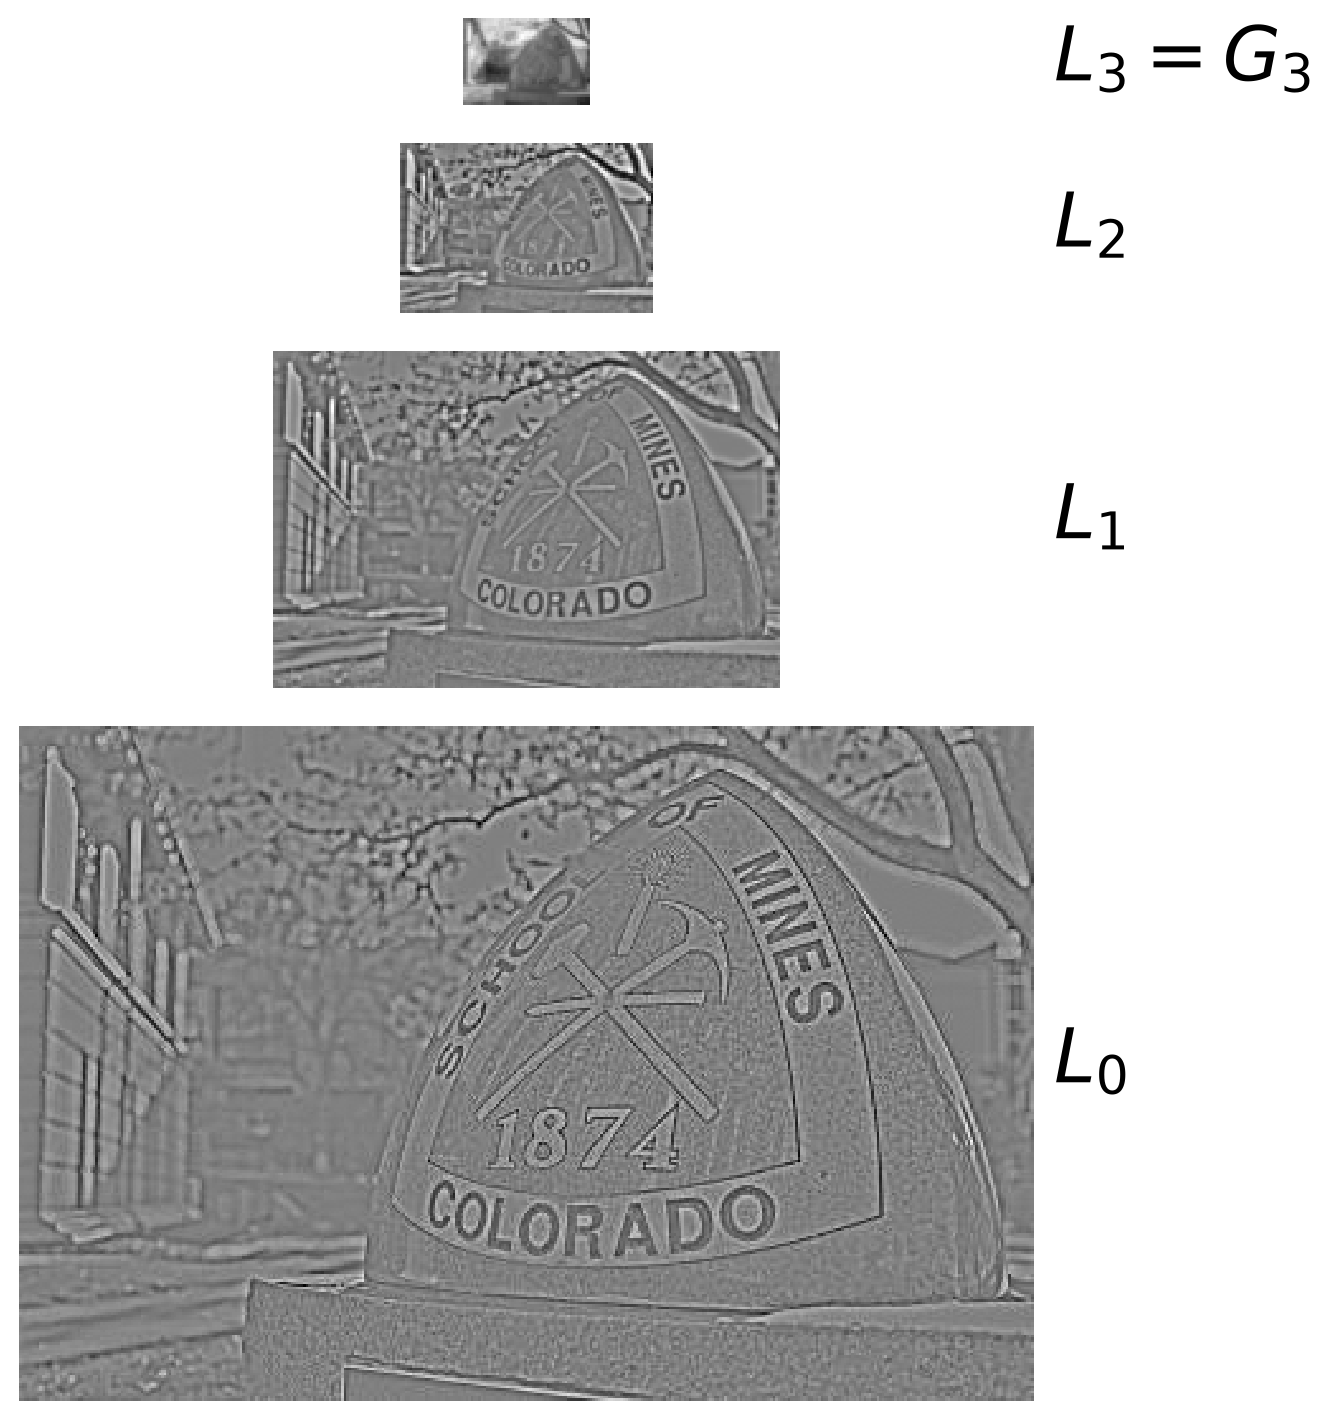
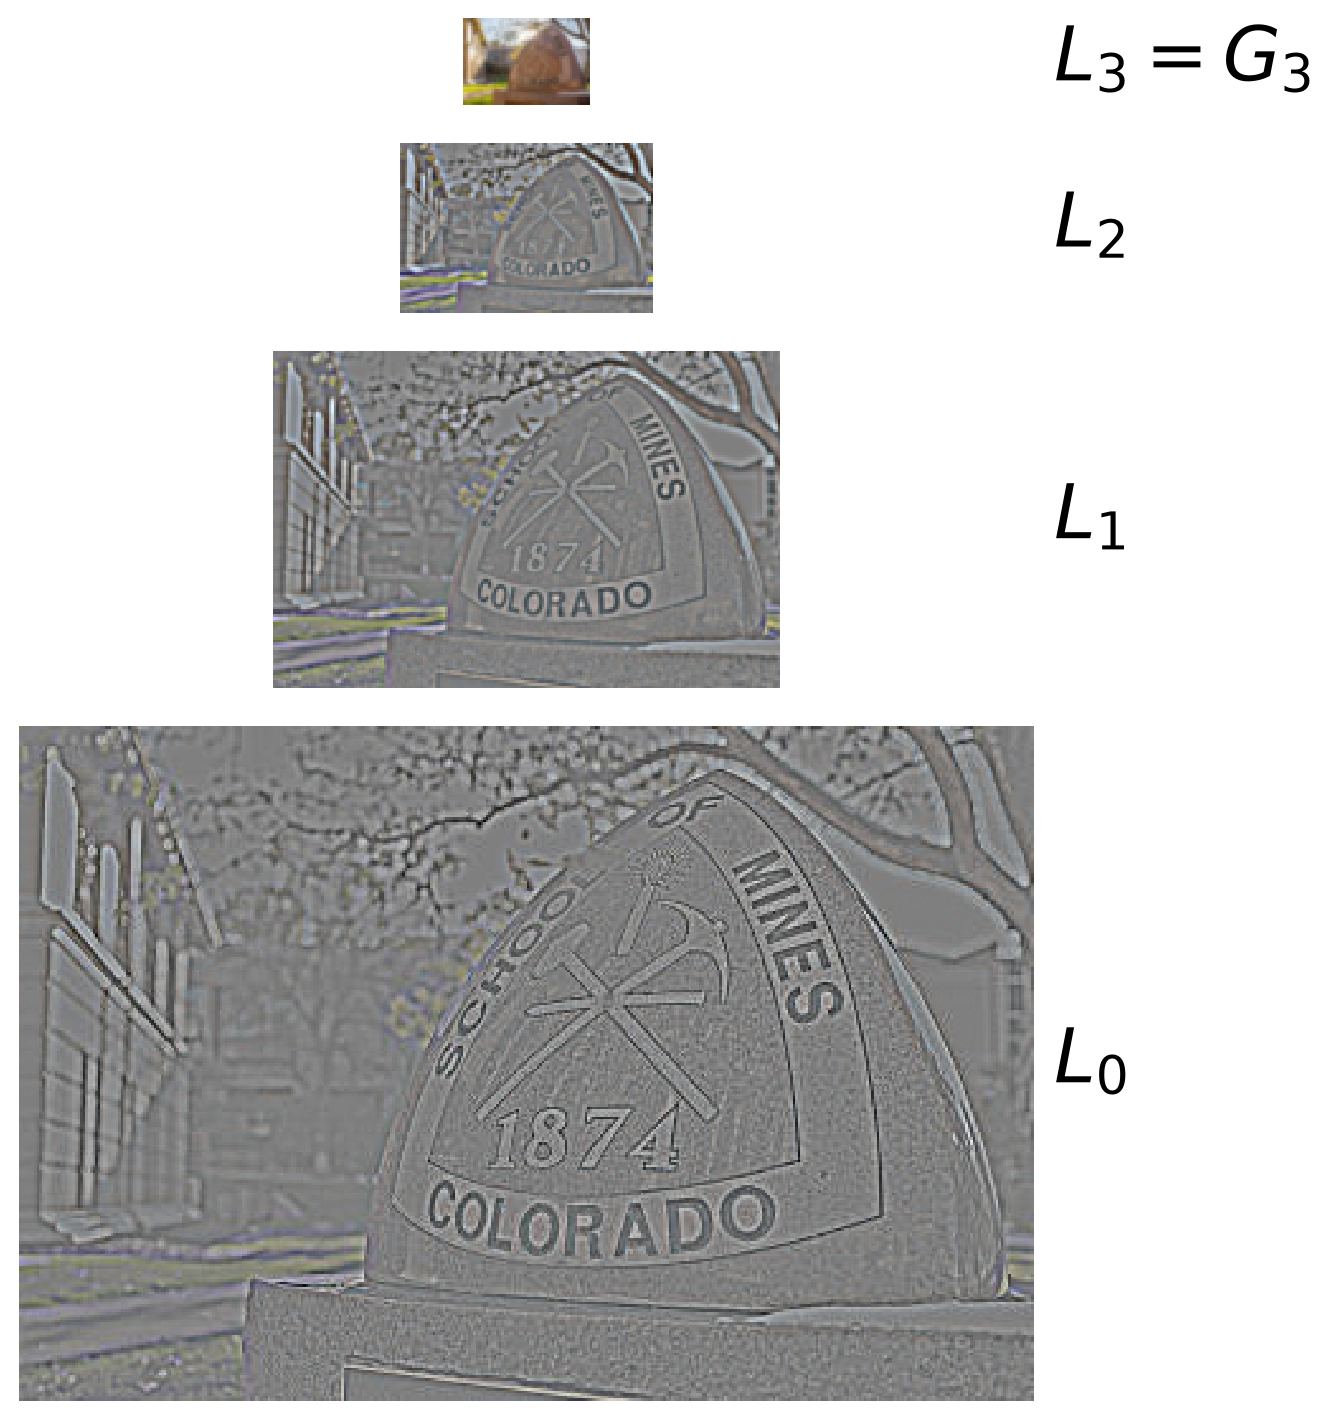
lec 4 color update, lec 2 geom vs spatial res

diff --git a/docs/lectures/04_image_pyramids.html b/docs/lectures/04_image_pyramids.html
@@ -247,7 +247,7 @@ Kaveh Fathian
   overflow-y: auto;
 }
 </style>
-<div id="1fa98fcf" class="cell code-block columns column-output-location" data-execution_count="3">
+<div id="865b434d" class="cell code-block columns column-output-location" data-execution_count="2">
 <div class="column">
 <div class="code-copy-outer-scaffold"><div class="sourceCode cell-code" id="cb1"><pre class="sourceCode numberSource python number-lines code-with-copy"><code class="sourceCode python"><span id="cb1-1"><a aria-label="1"></a><span class="im">import</span> matplotlib.pyplot <span class="im">as</span> plt</span>
 <span id="cb1-2"><a aria-label="2"></a></span>
@@ -259,7 +259,7 @@ Kaveh Fathian
 <span id="cb1-8"><a aria-label="8"></a>    gridspec_kw<span class="op">=</span>{<span class="st">"width_ratios"</span>: [<span class="dv">4</span>, <span class="dv">2</span>, <span class="dv">1</span>]})</span>
 <span id="cb1-9"><a aria-label="9"></a></span>
 <span id="cb1-10"><a aria-label="10"></a><span class="cf">for</span> a, y, s <span class="kw">in</span> <span class="bu">zip</span>(ax, [y2, y4, y8], [<span class="dv">2</span>, <span class="dv">4</span>, <span class="dv">8</span>]):</span>
-<span id="cb1-11"><a aria-label="11"></a>    a.imshow(y, cmap<span class="op">=</span><span class="st">"gray"</span>, vmin<span class="op">=</span><span class="dv">0</span>, vmax<span class="op">=</span><span class="dv">255</span>,</span>
+<span id="cb1-11"><a aria-label="11"></a>    a.imshow(color_display(y), cmap<span class="op">=</span><span class="st">"gray"</span>, vmin<span class="op">=</span><span class="dv">0</span>, vmax<span class="op">=</span><span class="dv">255</span>,</span>
 <span id="cb1-12"><a aria-label="12"></a>             interpolation<span class="op">=</span><span class="st">"nearest"</span>)</span>
 <span id="cb1-13"><a aria-label="13"></a>    a.set_title(<span class="ss">f"1/</span><span class="sc">{</span>s<span class="sc">}</span><span class="ss">"</span>)</span>
 <span id="cb1-14"><a aria-label="14"></a>    a.axis(<span class="st">"off"</span>)</span>
@@ -277,7 +277,7 @@ Kaveh Fathian
 </section>
 <section id="naïve-image-downsampling" class="slide level2">
 <h2>Naïve Image Downsampling</h2>
-<div id="b61574d8" class="cell" data-execution_count="4">
+<div id="6b136e41" class="cell" data-execution_count="3">
 <div class="cell-output cell-output-display">
 <div>
 <figure>
@@ -469,7 +469,7 @@ Kaveh Fathian
 <div style="height: 20px;">
 
 </div>
-<div id="00fd62b3" class="cell" data-execution_count="5">
+<div id="f58920c4" class="cell" data-execution_count="4">
 <div class="cell-output cell-output-display">
 <div class="quarto-figure quarto-figure-center">
 <figure>
@@ -482,7 +482,7 @@ Kaveh Fathian
 <section id="anti-aliasing-smoothing" class="slide level2">
 <h2>Anti-aliasing: Smoothing</h2>
 <p><strong>Approach 2:</strong> Smooth the image <strong>before downsampling</strong>.</p>
-<div id="fd3d9bae" class="cell" data-execution_count="6">
+<div id="390314c3" class="cell" data-execution_count="5">
 <div class="cell-output cell-output-display">
 <div class="quarto-figure quarto-figure-center">
 <figure>
@@ -506,7 +506,7 @@ Kaveh Fathian
   overflow-y: auto;
 }
 </style>
-<div id="67c7b254" class="cell code-block columns column-output-location" data-execution_count="7">
+<div id="b0a5266f" class="cell code-block columns column-output-location" data-execution_count="6">
 <div class="column">
 <div class="code-copy-outer-scaffold"><div class="sourceCode cell-code" id="cb2"><pre class="sourceCode numberSource python number-lines code-with-copy"><code class="sourceCode python"><span id="cb2-1"><a aria-label="1"></a><span class="im">import</span> cv2</span>
 <span id="cb2-2"><a aria-label="2"></a><span class="im">import</span> matplotlib.pyplot <span class="im">as</span> plt</span>
@@ -518,7 +518,7 @@ Kaveh Fathian
 <span id="cb2-8"><a aria-label="8"></a>fig, ax <span class="op">=</span> plt.subplots(<span class="dv">1</span>, <span class="dv">3</span>, figsize<span class="op">=</span>(<span class="dv">8</span>, <span class="dv">4</span>),</span>
 <span id="cb2-9"><a aria-label="9"></a>    gridspec_kw<span class="op">=</span>{<span class="st">"width_ratios"</span>: [<span class="dv">4</span>, <span class="dv">2</span>, <span class="dv">1</span>]})</span>
 <span id="cb2-10"><a aria-label="10"></a><span class="cf">for</span> a, y, s <span class="kw">in</span> <span class="bu">zip</span>(ax, [y2g, y4g, y8g], [<span class="dv">2</span>, <span class="dv">4</span>, <span class="dv">8</span>]):</span>
-<span id="cb2-11"><a aria-label="11"></a>    a.imshow(y, cmap<span class="op">=</span><span class="st">"gray"</span>, vmin<span class="op">=</span><span class="dv">0</span>, vmax<span class="op">=</span><span class="dv">255</span>,</span>
+<span id="cb2-11"><a aria-label="11"></a>    a.imshow(color_display(y), cmap<span class="op">=</span><span class="st">"gray"</span>, vmin<span class="op">=</span><span class="dv">0</span>, vmax<span class="op">=</span><span class="dv">255</span>,</span>
 <span id="cb2-12"><a aria-label="12"></a>             interpolation<span class="op">=</span><span class="st">"nearest"</span>)</span>
 <span id="cb2-13"><a aria-label="13"></a>    a.set_title(<span class="ss">f"1/</span><span class="sc">{</span>s<span class="sc">}</span><span class="ss">"</span>)</span>
 <span id="cb2-14"><a aria-label="14"></a>    a.axis(<span class="st">"off"</span>)</span>
@@ -538,7 +538,7 @@ Kaveh Fathian
 <section id="comparison-of-downsampling-methods" class="slide level2">
 <h2>Comparison of Downsampling Methods</h2>
 <h3 id="naïve-image-downsampling-1">Naïve Image Downsampling:</h3>
-<div id="e0a3c32b" class="cell" data-execution_count="8">
+<div id="8d4a1739" class="cell" data-execution_count="7">
 <div class="cell-output cell-output-display">
 <div class="quarto-figure quarto-figure-center">
 <figure>
@@ -548,7 +548,7 @@ Kaveh Fathian
 </div>
 </div>
 <h3 id="smoothed-image-downsampling">Smoothed Image Downsampling:</h3>
-<div id="7b1d1276" class="cell" data-execution_count="9">
+<div id="91ecf57b" class="cell" data-execution_count="8">
 <div class="cell-output cell-output-display">
 <div class="quarto-figure quarto-figure-center">
 <figure>
@@ -689,7 +689,7 @@ G_{i+1} = \operatorname{downsample}(h_G * G_i)
   overflow-y: auto;
 }
 </style>
-<div id="6d27588d" class="cell code-block columns column-output-location" data-execution_count="10">
+<div id="f3f04f7f" class="cell code-block columns column-output-location" data-execution_count="9">
 <div class="column">
 <div class="code-copy-outer-scaffold"><div class="sourceCode cell-code" id="cb3"><pre class="sourceCode numberSource python number-lines code-with-copy"><code class="sourceCode python"><span id="cb3-1"><a aria-label="1"></a><span class="im">import</span> cv2</span>
 <span id="cb3-2"><a aria-label="2"></a><span class="im">import</span> matplotlib.pyplot <span class="im">as</span> plt</span>
@@ -705,8 +705,8 @@ G_{i+1} = \operatorname{downsample}(h_G * G_i)
 <span id="cb3-12"><a aria-label="12"></a></span>
 <span id="cb3-13"><a aria-label="13"></a>W <span class="op">=</span> I.shape[<span class="dv">1</span>]</span>
 <span id="cb3-14"><a aria-label="14"></a><span class="cf">for</span> a, i <span class="kw">in</span> <span class="bu">zip</span>(ax, <span class="bu">range</span>(<span class="dv">3</span>, <span class="op">-</span><span class="dv">1</span>, <span class="op">-</span><span class="dv">1</span>)):</span>
-<span id="cb3-15"><a aria-label="15"></a>    h, w <span class="op">=</span> G[i].shape</span>
-<span id="cb3-16"><a aria-label="16"></a>    a.imshow(G[i], cmap<span class="op">=</span><span class="st">"gray"</span>, vmin<span class="op">=</span><span class="dv">0</span>, vmax<span class="op">=</span><span class="dv">255</span>,</span>
+<span id="cb3-15"><a aria-label="15"></a>    h, w <span class="op">=</span> G[i].shape[:<span class="dv">2</span>]</span>
+<span id="cb3-16"><a aria-label="16"></a>    a.imshow(color_display(G[i]), cmap<span class="op">=</span><span class="st">"gray"</span>, vmin<span class="op">=</span><span class="dv">0</span>, vmax<span class="op">=</span><span class="dv">255</span>,</span>
 <span id="cb3-17"><a aria-label="17"></a>             interpolation<span class="op">=</span><span class="st">"nearest"</span>,</span>
 <span id="cb3-18"><a aria-label="18"></a>             extent<span class="op">=</span>((W<span class="op">-</span>w)<span class="op">/</span><span class="dv">2</span>, (W<span class="op">+</span>w)<span class="op">/</span><span class="dv">2</span>, h, <span class="dv">0</span>))</span>
 <span id="cb3-19"><a aria-label="19"></a>    a.set_xlim(<span class="dv">0</span>, W)</span>
@@ -771,7 +771,7 @@ G_{i+1} = \operatorname{downsample}(h_G * G_i)
 <section id="blurring-removes-fine-detail" class="slide level2">
 <h2>Blurring Removes Fine Detail</h2>
 <p>Gaussian smoothing suppresses detail <strong>before we even downsample</strong>.</p>
-<div id="9d3f1332" class="cell" data-execution_count="12">
+<div id="74fe14ae" class="cell" data-execution_count="11">
 <div class="cell-output cell-output-display">
 <div class="quarto-figure quarto-figure-center">
 <figure>
@@ -785,7 +785,7 @@ G_{i+1} = \operatorname{downsample}(h_G * G_i)
 </section>
 <section id="what-did-smoothing-remove" class="slide level2">
 <h2>What Did Smoothing Remove?</h2>
-<div id="7fb9d800" class="cell" data-execution_count="13">
+<div id="f253e63d" class="cell" data-execution_count="12">
 <div class="cell-output cell-output-display">
 <div class="quarto-figure quarto-figure-center">
 <figure>
@@ -806,7 +806,7 @@ G_{i+1} = \operatorname{downsample}(h_G * G_i)
 <section id="start-with-one-level" class="slide level2">
 <h2>Start with One Level</h2>
 <p>The original image equals an <strong>expanded coarse image</strong> plus a <strong>residual</strong>.</p>
-<div id="193eb421" class="cell" data-execution_count="14">
+<div id="2d5e8218" class="cell" data-execution_count="13">
 <div class="cell-output cell-output-display">
 <div class="quarto-figure quarto-figure-center">
 <figure>
@@ -921,14 +921,14 @@ L_i = G_i - \operatorname{expand}(G_{i+1})
   overflow-y: auto;
 }
 </style>
-<div id="7ba4fd51" class="cell code-block columns column-output-location" data-execution_count="15">
+<div id="b0052933" class="cell code-block columns column-output-location" data-execution_count="14">
 <div class="column">
 <div class="code-copy-outer-scaffold"><div class="sourceCode cell-code" id="cb4"><pre class="sourceCode numberSource python number-lines code-with-copy"><code class="sourceCode python"><span id="cb4-1"><a aria-label="1"></a>G <span class="op">=</span> [I.astype(<span class="st">"float32"</span>)]</span>
 <span id="cb4-2"><a aria-label="2"></a>L <span class="op">=</span> []</span>
 <span id="cb4-3"><a aria-label="3"></a></span>
 <span id="cb4-4"><a aria-label="4"></a><span class="cf">for</span> _ <span class="kw">in</span> <span class="bu">range</span>(<span class="dv">3</span>):</span>
 <span id="cb4-5"><a aria-label="5"></a>    y <span class="op">=</span> cv2.pyrDown(G[<span class="op">-</span><span class="dv">1</span>], borderType<span class="op">=</span>cv2.BORDER_REFLECT)</span>
-<span id="cb4-6"><a aria-label="6"></a>    u <span class="op">=</span> cv2.pyrUp(y, dstsize<span class="op">=</span>G[<span class="op">-</span><span class="dv">1</span>].shape[::<span class="op">-</span><span class="dv">1</span>])</span>
+<span id="cb4-6"><a aria-label="6"></a>    u <span class="op">=</span> cv2.pyrUp(y, dstsize<span class="op">=</span>G[<span class="op">-</span><span class="dv">1</span>].shape[:<span class="dv">2</span>][::<span class="op">-</span><span class="dv">1</span>])</span>
 <span id="cb4-7"><a aria-label="7"></a>    L.append(G[<span class="op">-</span><span class="dv">1</span>] <span class="op">-</span> u)</span>
 <span id="cb4-8"><a aria-label="8"></a>    G.append(y)</span>
 <span id="cb4-9"><a aria-label="9"></a></span>
@@ -940,10 +940,10 @@ L_i = G_i - \operatorname{expand}(G_{i+1})
 <span id="cb4-15"><a aria-label="15"></a></span>
 <span id="cb4-16"><a aria-label="16"></a>W <span class="op">=</span> I.shape[<span class="dv">1</span>]</span>
 <span id="cb4-17"><a aria-label="17"></a><span class="cf">for</span> a, i <span class="kw">in</span> <span class="bu">zip</span>(ax, <span class="bu">range</span>(<span class="dv">3</span>, <span class="op">-</span><span class="dv">1</span>, <span class="op">-</span><span class="dv">1</span>)):</span>
-<span id="cb4-18"><a aria-label="18"></a>    h, w <span class="op">=</span> L[i].shape</span>
+<span id="cb4-18"><a aria-label="18"></a>    h, w <span class="op">=</span> L[i].shape[:<span class="dv">2</span>]</span>
 <span id="cb4-19"><a aria-label="19"></a>    s <span class="op">=</span> <span class="bu">max</span>(<span class="bu">float</span>(<span class="bu">abs</span>(L[i]).<span class="bu">max</span>()), <span class="dv">1</span>)</span>
 <span id="cb4-20"><a aria-label="20"></a>    lo, hi <span class="op">=</span> (<span class="dv">0</span>, <span class="dv">255</span>) <span class="cf">if</span> i <span class="op">==</span> <span class="dv">3</span> <span class="cf">else</span> (<span class="op">-</span>s, s)</span>
-<span id="cb4-21"><a aria-label="21"></a>    a.imshow(L[i], cmap<span class="op">=</span><span class="st">"gray"</span>, vmin<span class="op">=</span>lo, vmax<span class="op">=</span>hi,</span>
+<span id="cb4-21"><a aria-label="21"></a>    a.imshow(color_display(L[i], lo, hi), cmap<span class="op">=</span><span class="st">"gray"</span>, vmin<span class="op">=</span>lo, vmax<span class="op">=</span>hi,</span>
 <span id="cb4-22"><a aria-label="22"></a>             interpolation<span class="op">=</span><span class="st">"nearest"</span>,</span>
 <span id="cb4-23"><a aria-label="23"></a>             extent<span class="op">=</span>((W<span class="op">-</span>w)<span class="op">/</span><span class="dv">2</span>, (W<span class="op">+</span>w)<span class="op">/</span><span class="dv">2</span>, h, <span class="dv">0</span>))</span>
 <span id="cb4-24"><a aria-label="24"></a>    a.set_xlim(<span class="dv">0</span>, W)</span>
@@ -1016,7 +1016,7 @@ G_i = \operatorname{expand}(G_{i+1}) + L_i
 <p>Keeping the residuals and smallest image allows <strong>exact reconstruction</strong>, apart from numerical roundoff.</p>
 </div>
 </div><div class="column" style="width:62%;">
-<div id="021075f0" class="cell" data-execution_count="17">
+<div id="3d36e3d1" class="cell" data-execution_count="16">
 <div class="cell-output cell-output-display">
 <div>
 <figure>
@@ -1112,7 +1112,7 @@ N + \frac{N}{4} + \frac{N}{16} + \cdots
 </section>
 <section id="application-selective-detail-enhancement" class="slide level2">
 <h2>Application: Selective Detail Enhancement</h2>
-<div id="8e0d3080" class="cell" data-execution_count="18">
+<div id="19c99a0b" class="cell" data-execution_count="17">
 <div class="cell-output cell-output-display">
 <div class="quarto-figure quarto-figure-center">
 <figure>
@@ -1161,7 +1161,7 @@ R_\theta
 <li>Computational models of visual perception</li>
 </ul>
 </div><div class="column" style="width:58%;">
-<div id="4aba00d5" class="cell" data-execution_count="19">
+<div id="cd0dcbcd" class="cell" data-execution_count="18">
 <div class="cell-output cell-output-display">
 <div class="quarto-figure quarto-figure-center">
 <figure>
@@ -1196,7 +1196,7 @@ R_\theta
 <li>Medical and scientific imaging</li>
 </ul>
 </div><div class="column" style="width:58%;">
-<div id="8912f490" class="cell" data-execution_count="20">
+<div id="c735346d" class="cell" data-execution_count="19">
 <div class="cell-output cell-output-display">
 <div class="quarto-figure quarto-figure-center">
 <figure>

diff --git a/docs/lectures/02_image.html b/docs/lectures/02_image.html
@@ -441,10 +441,15 @@ I(x, y) = \text{intensity at image location} (x,y)
 <p><strong>Note</strong></p>
 </div>
 <div class="callout-content">
-<p>Spatial resolution counts pixels. Geometric resolution is how accurately those pixels represent the positions of objects in the real world.</p>
+<p>Spatial resolution counts pixels. Geometric resolution is how accurately those pixels represent the positions of objects in the real world; or how sharp the image is. Geometric resolution is limited by physics, optics, and the environment (see Rayleigh criterion).</p>
 </div>
 </div>
 </div>
+<!-- I wanted to provide an explanation for the differences between Geometric and Spatial Resolution discussed in Lecture 2.
+
+Spatial resolution - completely dependent on the sensor used to digitize the image projected onto it. The smaller the pixels the more detail that can be captured, but we cannot get around the quantization/digitization of information - it will get cast to an integer value despite being a continuous signal. At some point the electronics has to to decide between two adjacent values. Interestingly, human perception of brightness is non-linear, so cameras attempt to mimic this in software as they count light photons with a linear photon-to-electron conversion response. Also interesting, sensors are inherently mono-color, and we have to add filters to discern between colors when digitizing. When using filter, the pixels are actually three sub-pixels each with a different color filter (Red, Green, Blue). The process of combining these three channels is called debayering.
+
+Now the other topic, Geometric Resolution is less intuitive, but fundamental physics provides an absolute bound described by the Rayleigh criterion. In practice though, unless you are taking diffraction limited images or making microelectronics, there are many other factors that can degrade the ability to capture a sharp image. Being out of focus is the most clear representation, but also the optics used to focus the light can (and do) introduce chromatic aberration (dependent on wavelength) and spherical aberration (dependent on the lens shape). But other factors also include fog/haze, or even air currents depending on the imaging setup. All of these factors combine to degrade the sharpness that can be obtained by a camera. At the extreme end of optics (space telescopes and microelectronics fabrication), it turns out that the Rayleigh criterion becomes the most significant factor, and much like car engines (where there is no replacement for displacement), the optics must get bigger in diameter to get better Geometric Resolution. -->
 </section>
 <section id="quantization" class="slide level2">
 <h2>Quantization</h2>

diff --git a/docs/lectures/index.html b/docs/lectures/index.html
@@ -244,7 +244,7 @@ window.Quarto = {
     </div>
   </div>
 
-  <div class="lecture-item mb-4 pb-3 border-bottom" data-index="1" data-listing-file-modified-sort="1787704926232" data-listing-reading-time-sort="11" data-listing-word-count-sort="2015">
+  <div class="lecture-item mb-4 pb-3 border-bottom" data-index="1" data-listing-file-modified-sort="1788985212008" data-listing-reading-time-sort="12" data-listing-word-count-sort="2348">
     <h3 class="listing-title mb-1 anchored">
       <a href="02_image.html">Lecture 02 — Image Formation and Digital Images</a>
     </h3>
@@ -282,7 +282,7 @@ window.Quarto = {
     </div>
   </div>
 
-  <div class="lecture-item mb-4 pb-3 border-bottom" data-index="3" data-listing-file-modified-sort="1788937927192" data-listing-reading-time-sort="35" data-listing-word-count-sort="6848">
+  <div class="lecture-item mb-4 pb-3 border-bottom" data-index="3" data-listing-file-modified-sort="1788986021812" data-listing-reading-time-sort="35" data-listing-word-count-sort="6929">
     <h3 class="listing-title mb-1 anchored">
       <a href="04_image_pyramids.html">Lecture 04 — Image Pyramids</a>
     </h3>
